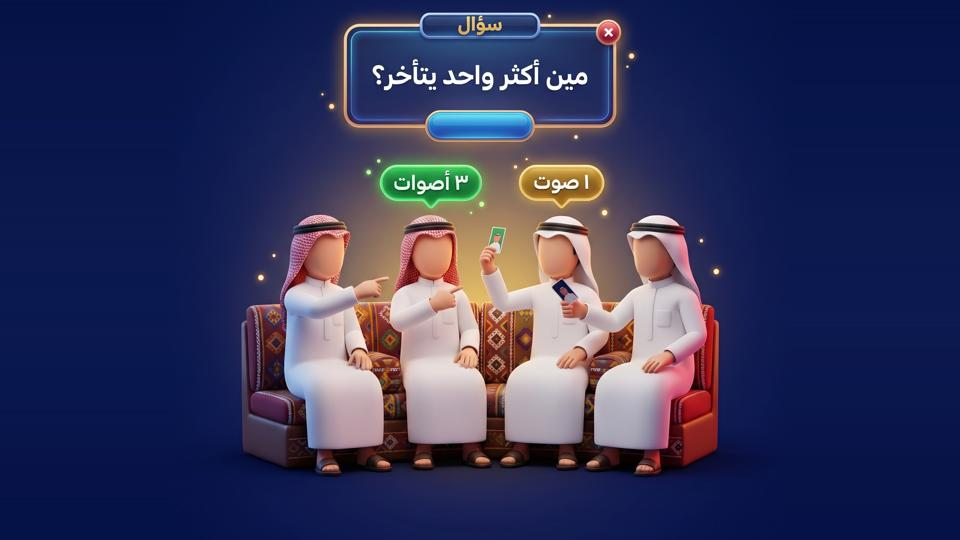
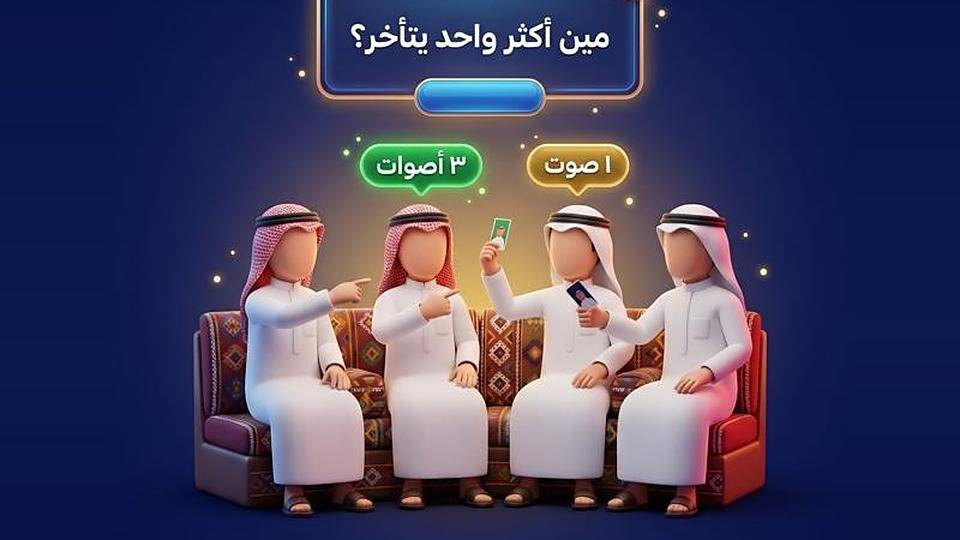
Zoom in the store pictures of 26 games so the drawing fills the card
Claude-Session: https://claude.ai/code/session_01MyhzyP5SMrsYs3pTaQnq6P

diff --git a/public/sw.js b/public/sw.js
@@ -1,8 +1,8 @@
 /* Diwaniya+ service worker: makes repeat visits faster and keeps the app shell available offline.
    It never touches anything live: the API (balance, login, payments), game launches, rooms and payment pages
    always go straight to the network. */
-const VERSION = 'dw-shell-v5';
-const SHELL = ['/', '/posters.js?v=4', '/qr.js', '/m8p.js?v=2', '/favicon.svg', '/manifest.webmanifest', '/icons/icon-192.png', '/icons/icon-512.png'];
+const VERSION = 'dw-shell-v6';
+const SHELL = ['/', '/posters.js?v=5', '/qr.js', '/m8p.js?v=2', '/favicon.svg', '/manifest.webmanifest', '/icons/icon-192.png', '/icons/icon-512.png'];
 const NEVER = /^\/(api|play|rooms|payments|media)\//;
 
 self.addEventListener('install', (event) => {

diff --git a/public/posters.js b/public/posters.js
@@ -261,7 +261,7 @@
     var old = P[k] || '';
     // Only the picture (on the same navy as its own background); the old drawing peeked out at odd sizes while it loaded.
     P[k] = '<div style="position:relative;width:100%;height:100%;background:#151d4a">' +
-      '<img src="/media/med_seed_game_' + k + '?v=4" alt="" decoding="async" style="position:absolute;inset:0;width:100%;height:100%;object-fit:cover;display:block"></div>';
+      '<img src="/media/med_seed_game_' + k + '?v=5" alt="" decoding="async" style="position:absolute;inset:0;width:100%;height:100%;object-fit:cover;display:block"></div>';
   });
   window.DW_POSTERS = P;
 })();

diff --git a/public/index.html b/public/index.html
@@ -1113,7 +1113,7 @@ html.dw-game-open #dwApp { visibility: hidden; }
 
 <script src="/m8p.js?v=2"></script>
 <script src="/qr.js"></script>
-<script src="/posters.js?v=4"></script>
+<script src="/posters.js?v=5"></script>
 <script>
 /* ============================================================================
  * ديوانية بلس (Diwaniya+) — Frontend Storefront, Wallet, Auth, Guides & Admin
